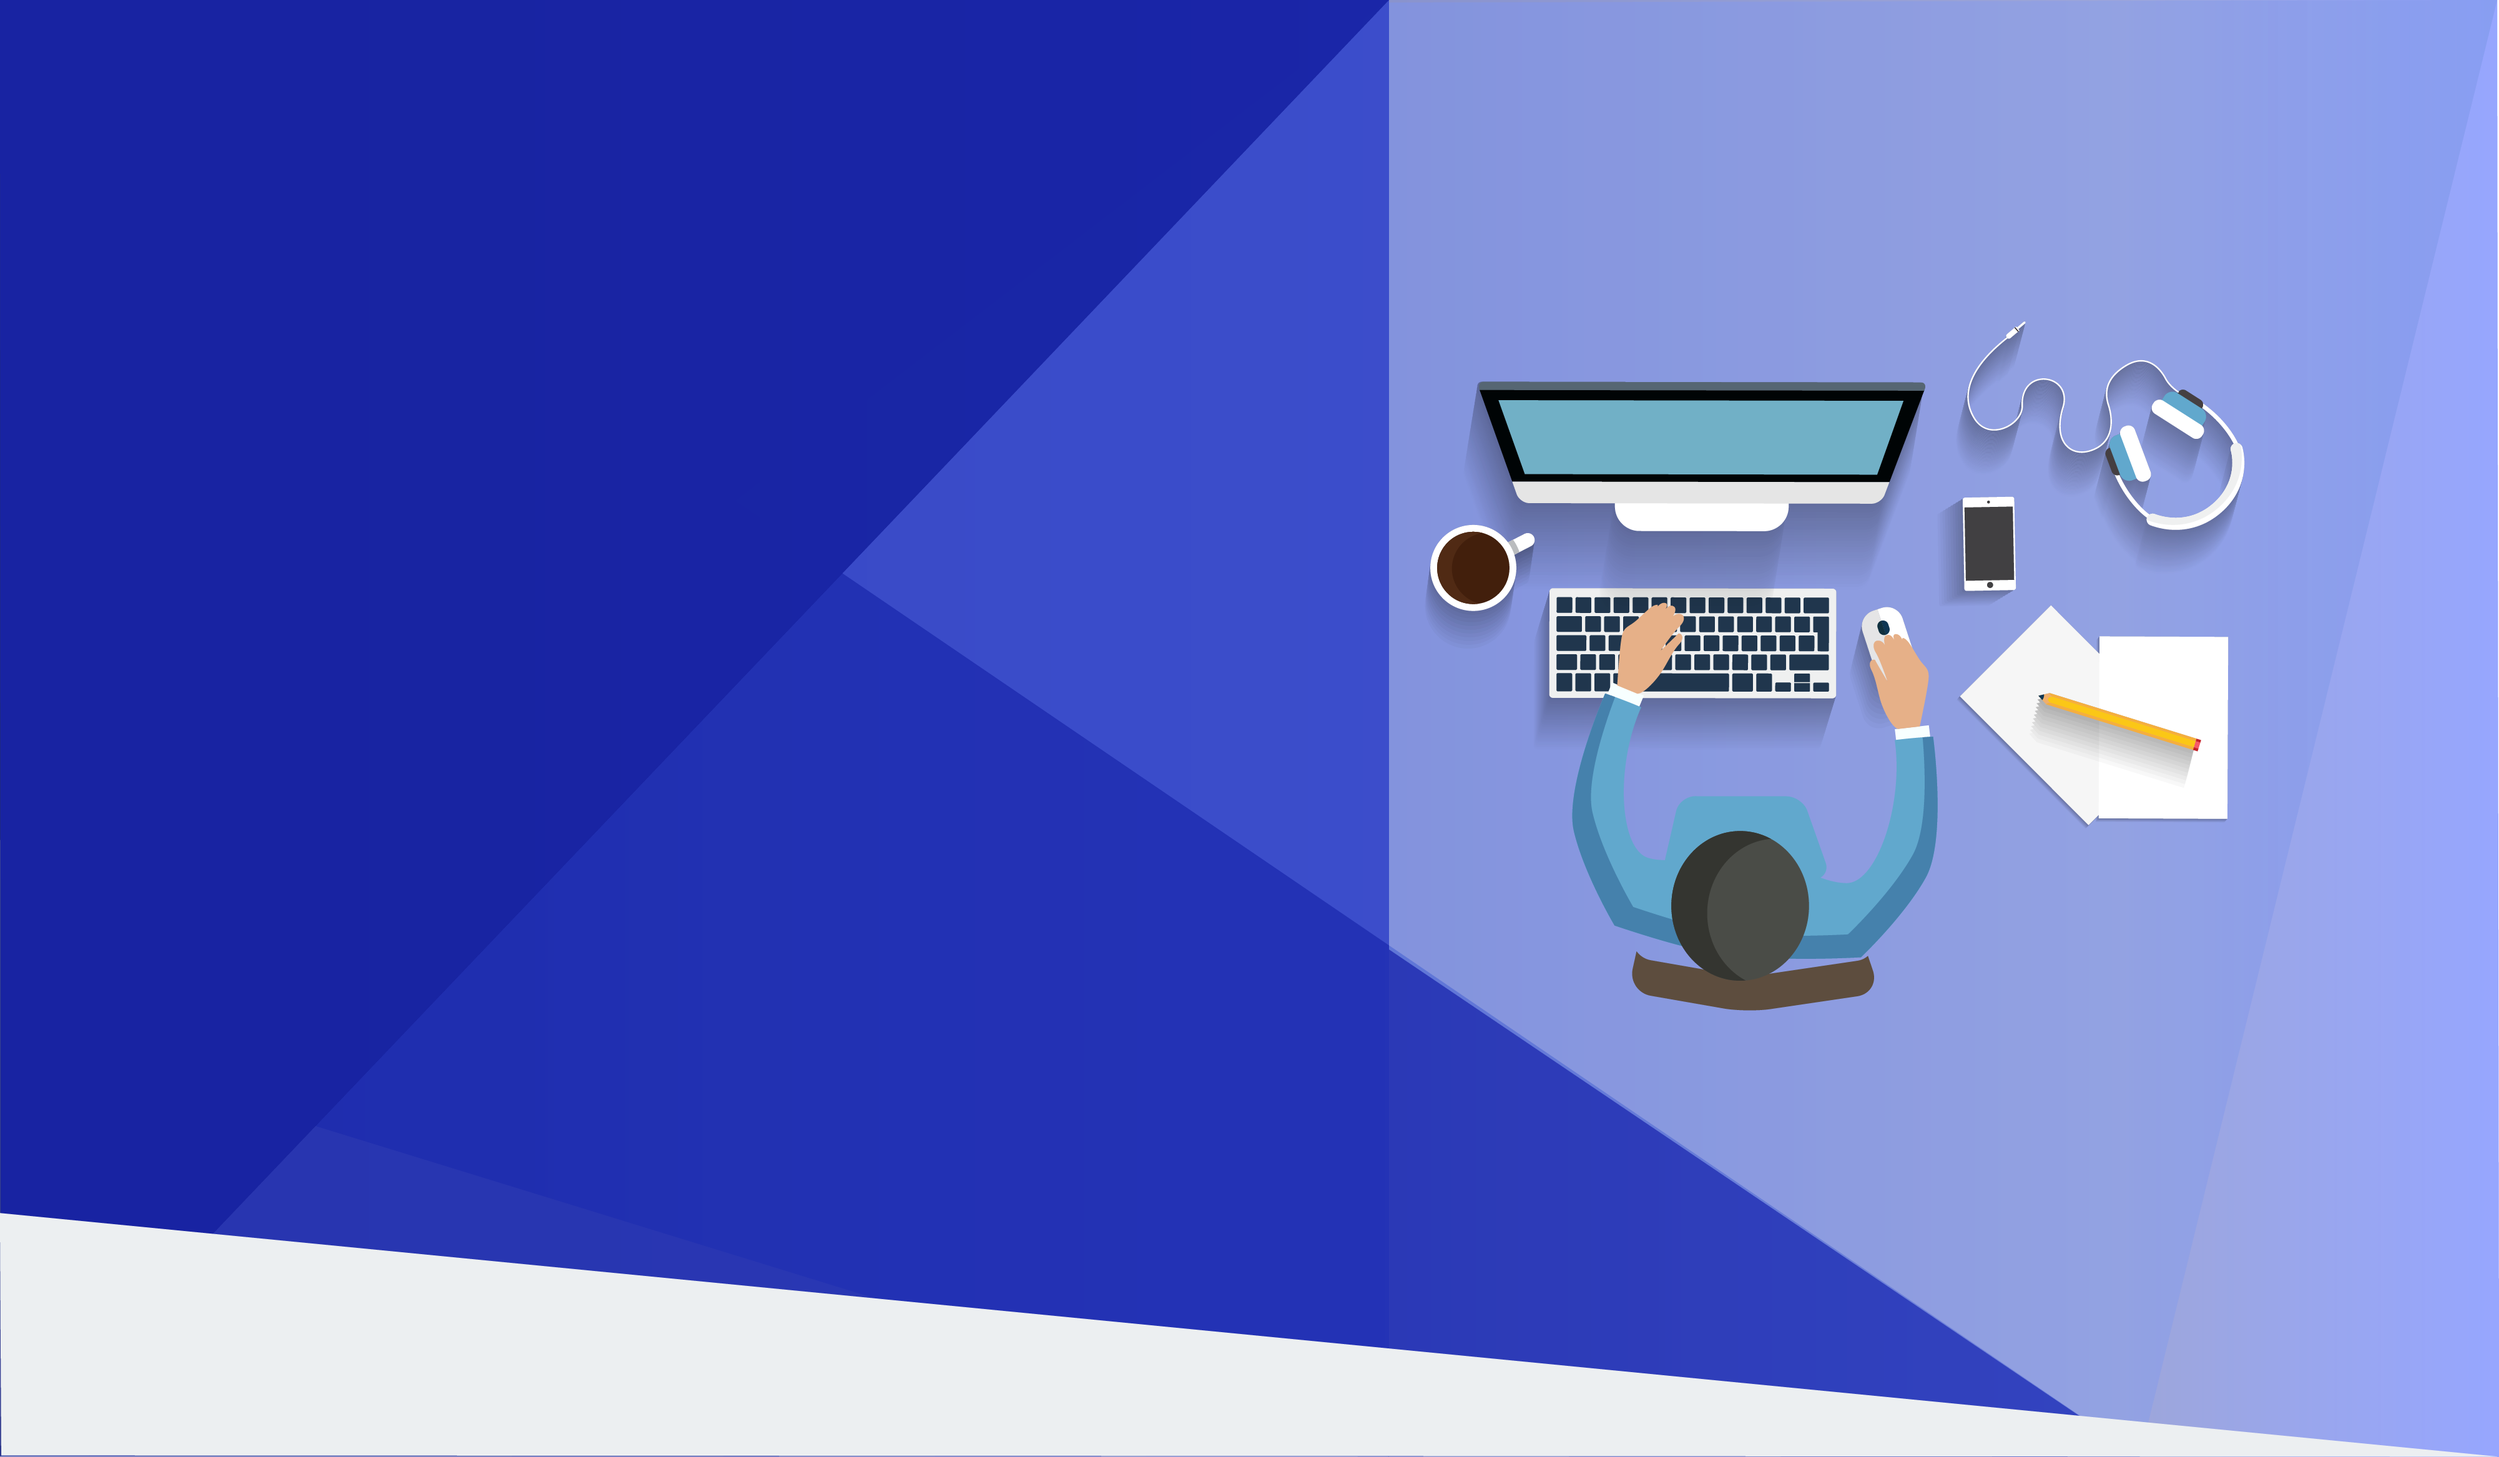
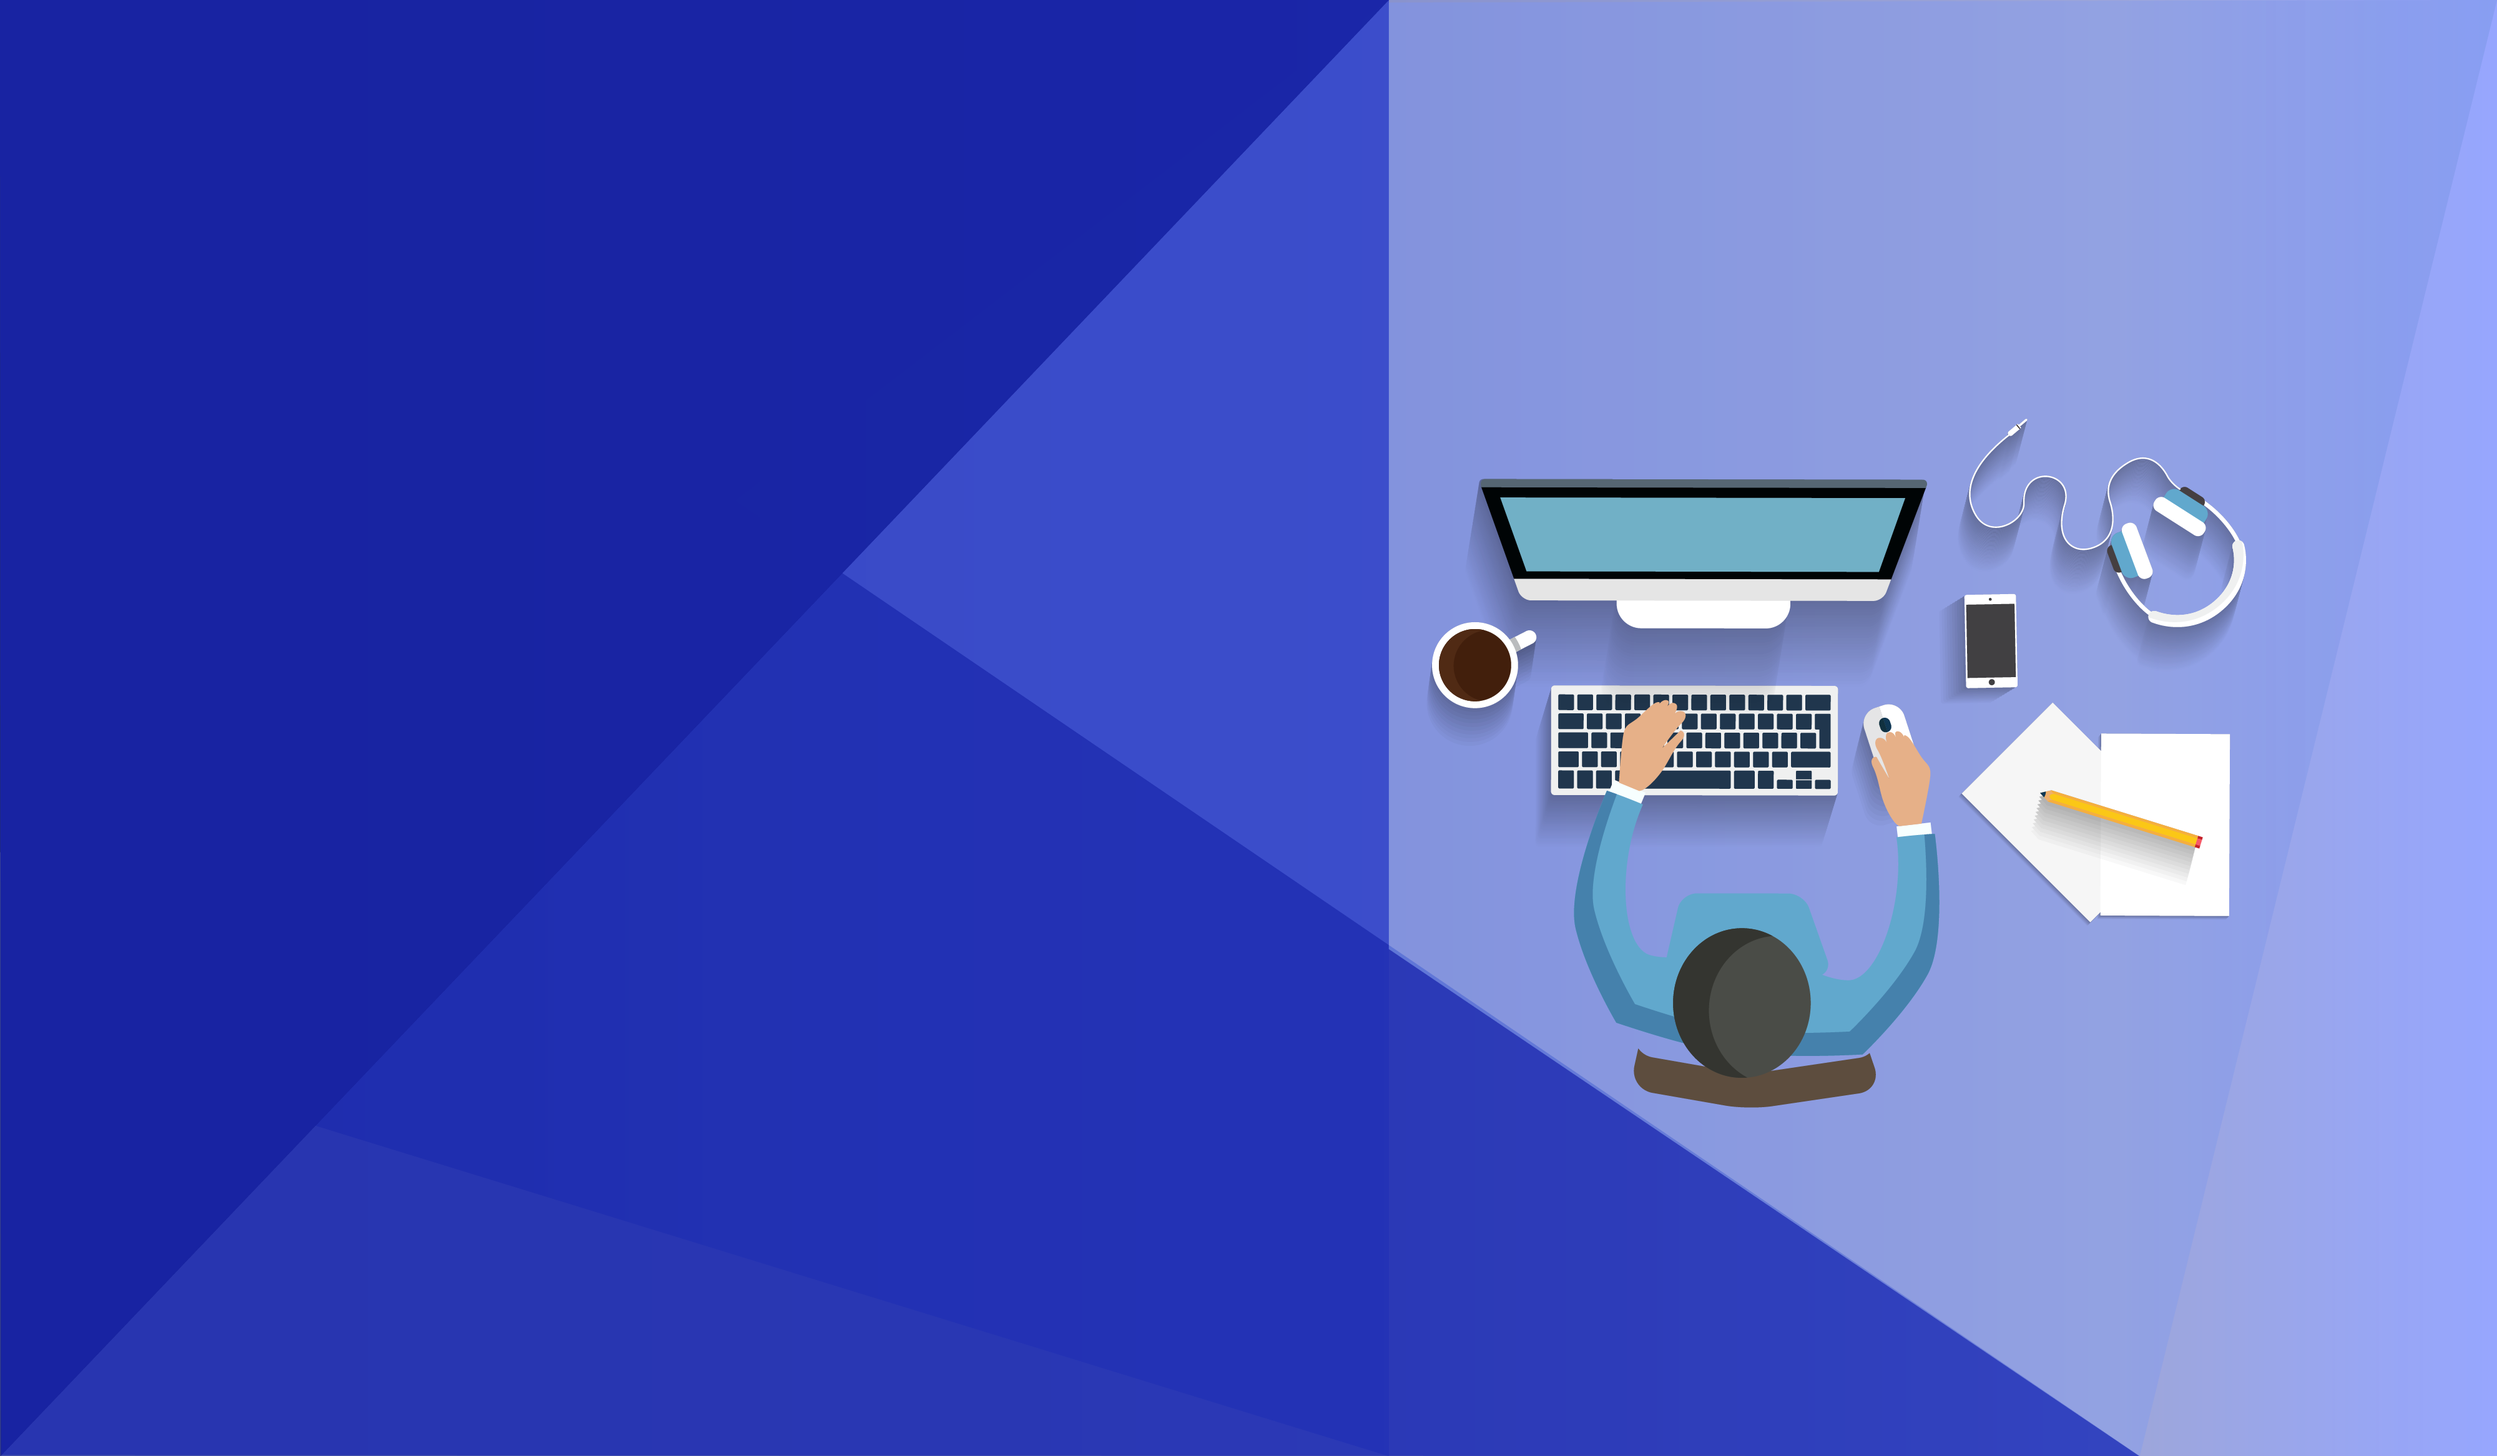
remove white on bottom header

Changed region(s): [[0.5625, 0.216, 0.9062, 0.7715], [0.0, 0.8333, 1.0, 1.0]]

diff --git a/index.html b/index.html
@@ -36,7 +36,7 @@
 
         .caption {
           position: absolute;
-          top: 35%;
+          top: 30%;
           left: 0;
           width: 100%;
         }
